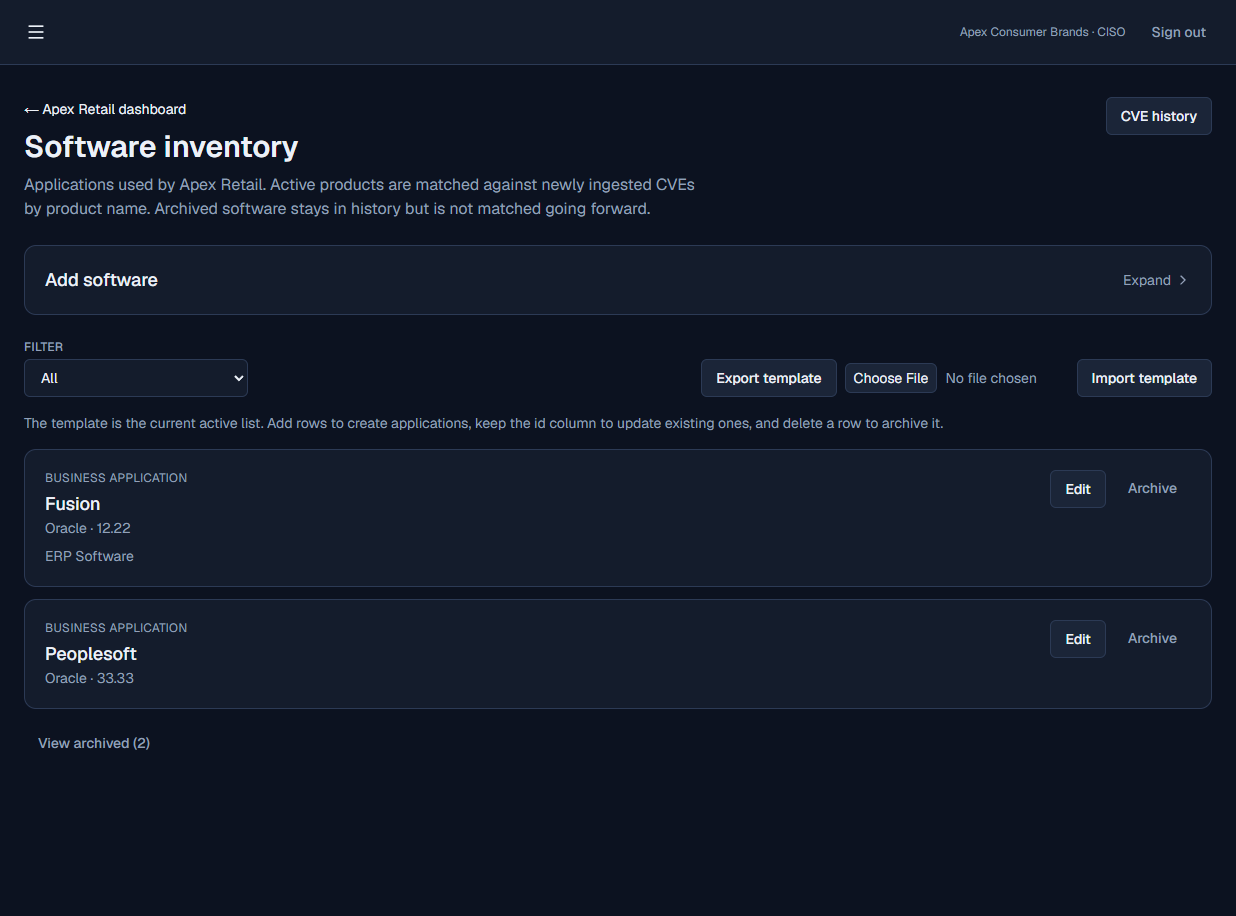
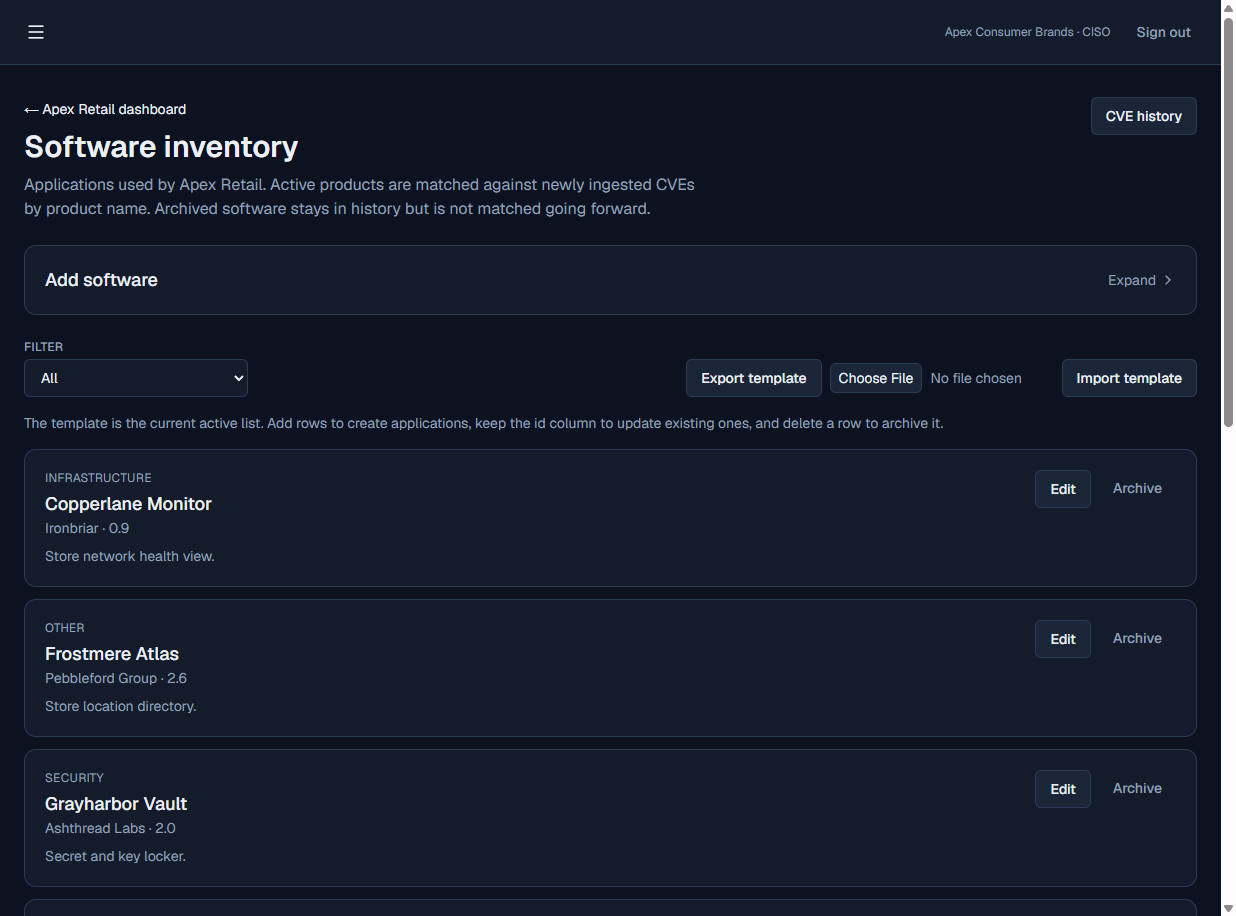
Replace vendor-named demo software with fictional inventory names.

diff --git a/prisma/seed-demo.ts b/prisma/seed-demo.ts
@@ -1,11 +1,111 @@
 import bcrypt from "bcryptjs";
-import type { CsfTier, Priority, PrismaClient } from "@prisma/client";
+import type { CsfTier, Priority, PrismaClient, SoftwareCategory } from "@prisma/client";
 import { computeScorecard } from "../src/lib/scoring";
 import { toScoreInputs } from "../src/lib/catalog";
 import { MANAGED_ROLES, PRODUCT_AREAS, defaultPermissionMap } from "../src/lib/rbac";
 import { ensureOrganizationRoles, renameLegacyCsoIdentity } from "../src/lib/org-roles";
 
 export const DEMO_PASSWORD = "ChangeMe123!";
+
+const DEMO_SOFTWARE: Array<{
+  productName: string;
+  companyName: string;
+  version: string;
+  category: SoftwareCategory;
+  notes: string;
+}> = [
+  {
+    productName: "Northlamp Ledger",
+    companyName: "Finchvale Works",
+    version: "3.2",
+    category: "BUSINESS_APPLICATION",
+    notes: "Internal finance workbook for brand close.",
+  },
+  {
+    productName: "Rivermark Planner",
+    companyName: "Softmeadow",
+    version: "1.8",
+    category: "BUSINESS_APPLICATION",
+    notes: "Seasonal merchandising calendar.",
+  },
+  {
+    productName: "Tidewell Mail",
+    companyName: "Harborquill",
+    version: "4.1",
+    category: "COLLABORATION",
+    notes: "Store-ops messaging.",
+  },
+  {
+    productName: "Grayharbor Vault",
+    companyName: "Ashthread Labs",
+    version: "2.0",
+    category: "SECURITY",
+    notes: "Secret and key locker.",
+  },
+  {
+    productName: "Maplewick Notes",
+    companyName: "Cedarline Studio",
+    version: "1.4",
+    category: "COLLABORATION",
+    notes: "Shift handover notes.",
+  },
+  {
+    productName: "Kindling Draft",
+    companyName: "Wrenhollow",
+    version: "0.7",
+    category: "AI",
+    notes: "Internal copy draft helper.",
+  },
+  {
+    productName: "Larkstone Board",
+    companyName: "Nimbusvale",
+    version: "5.3",
+    category: "COLLABORATION",
+    notes: "Cross-team task board.",
+  },
+  {
+    productName: "Copperlane Monitor",
+    companyName: "Ironbriar",
+    version: "0.9",
+    category: "INFRASTRUCTURE",
+    notes: "Store network health view.",
+  },
+  {
+    productName: "Willowgate Studio",
+    companyName: "Bramble & Reed",
+    version: "3.0",
+    category: "DEVELOPER_TOOL",
+    notes: "Internal integration workshop.",
+  },
+  {
+    productName: "Frostmere Atlas",
+    companyName: "Pebbleford Group",
+    version: "2.6",
+    category: "OTHER",
+    notes: "Store location directory.",
+  },
+];
+
+export async function seedDemoSoftware(
+  prisma: PrismaClient,
+  args: {
+    organizationId: string;
+    brandId: string;
+    createdById: string;
+  },
+) {
+  await prisma.softwareAsset.deleteMany({
+    where: { brandId: args.brandId },
+  });
+  await prisma.softwareAsset.createMany({
+    data: DEMO_SOFTWARE.map((item) => ({
+      organizationId: args.organizationId,
+      brandId: args.brandId,
+      createdById: args.createdById,
+      ...item,
+    })),
+  });
+}
 
 const TIERS: CsfTier[] = [
   "PARTIAL",
@@ -233,6 +333,15 @@ export async function seedDemoWorkspace(prisma: PrismaClient) {
     publishedById: ciso.id,
     evidenceById: analyst.id,
     publish: false,
+  });
+
+  await seedDemoSoftware(prisma, {
+    organizationId: organization.id,
+    brandId: retail.id,
+    createdById: analyst.id,
+  });
+  await prisma.softwareAsset.deleteMany({
+    where: { brandId: wholesale.id },
   });
 
   console.log("Demo workspace: Apex Consumer Brands");

diff --git a/src/jobs/backfill-cvss.ts b/src/jobs/backfill-cvss.ts
@@ -1,6 +1,5 @@
 import { prisma } from "../lib/prisma";
 import { backfillCvssFromSummaries } from "../lib/cve-sync";
-import { parseCvssFromText } from "../lib/cvss";
 
 async function main() {
   const updated = await backfillCvssFromSummaries();
@@ -9,17 +8,6 @@ async function main() {
     prisma.cveRecord.count({ where: { cvssScore: { not: null } } }),
     prisma.cveRecord.count({ where: { cvssScore: { gt: 7.5 } } }),
   ]);
-  const fusion = await prisma.softwareCveMatch.findMany({
-    where: {
-      acknowledgedAt: null,
-      software: { archivedAt: null, productName: { contains: "Fusion", mode: "insensitive" } },
-    },
-    include: {
-      cve: { select: { cveId: true, summary: true, cvssScore: true } },
-      software: { select: { productName: true, companyName: true } },
-    },
-    take: 8,
-  });
   console.log(
     JSON.stringify(
       {
@@ -27,12 +15,6 @@ async function main() {
         total,
         scored,
         high,
-        fusion: fusion.map((row) => ({
-          product: row.software.productName,
-          cveId: row.cve.cveId,
-          cvssScore: row.cve.cvssScore,
-          parsed: parseCvssFromText(row.cve.summary),
-        })),
       },
       null,
       2,
